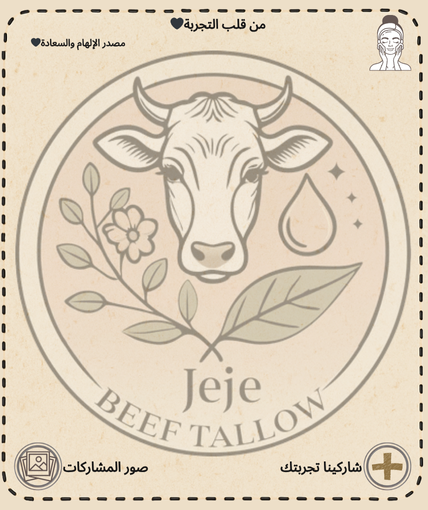
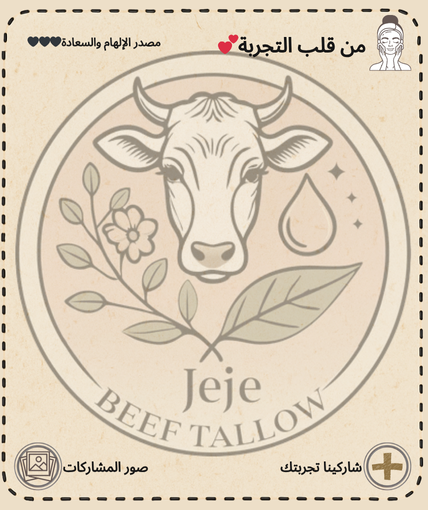
edit

Changed region(s): [[0.3949, 0.0294, 0.8505, 0.1176], [0.0607, 0.0588, 0.3645, 0.1176]]

diff --git a/sis/main.js b/sis/main.js
@@ -1,7 +1,7 @@
 
 (() => {
  
-  const IMAGE_URL = 'https://ghosted907.github.io/salla-assets/sis/4.png';
+  const IMAGE_URL = 'https://ghosted907.github.io/salla-assets/sis/5.png';
   const WA_PHONE  = '966557042544'; 
   const WA_TEXT   = encodeURIComponent('أرغب بإضافة رأيي حول المنتج');
   const GALLERY = [
@@ -130,8 +130,8 @@
          background:transparent!important;border:0;box-shadow:none!important;border-radius:9999px;
          display:block;cursor:pointer;z-index:3;appearance:none;-webkit-appearance:none;padding:0;margin:0}
 
-    .pin-add{top:92.5%;left:5.8%}
-    .pin-gallery{top:8.5%;left:5.8%}
+    .pin-add{top:91.5%;left:93.8%}
+    .pin-gallery{top:91.5%;left:4.8%}
 
     /* Modal */
     dialog.gallery-modal{ border:0; padding:0; background:transparent; }
@@ -184,7 +184,7 @@
     .gal-dot[aria-current="true"]{ background:#8d6a39; }
 
     /* ===== شريط الآراء المتحرك ===== */
-    .jf-ticker{ position:absolute; left:1px; right:8%; bottom:20%; height:140px; background:rgba(239,234,226,.80); border-radius:16px; padding:160px 14px; overflow:hidden; z-index:2; display:flex; align-items:stretch; }
+    .jf-ticker{ position:absolute; left:1px; right:8%; bottom:20%; height:140px; background:rgba(239,234,226,.80); border-radius:16px; padding:180px 14px; overflow:hidden; z-index:2; display:flex; align-items:stretch; }
     .jf-track{ display:flex; flex-direction:column; gap:10px; animation-name:jf-marquee-up; animation-timing-function:linear; animation-iteration-count:infinite; will-change:transform; }
     .jf-item{ background:#fff; border:1px solid #ddd; border-radius:12px; padding:10px 12px; color:#19191a; box-shadow:0 2px 6px rgba(0,0,0,.05); }
     .jf-ticker:hover .jf-track{ animation-play-state:paused; }
@@ -195,7 +195,7 @@
     /* بدل إيقاف الحركة بالكامل عند تفعيل تقليل الحركة، نجعلها أبطأ */
     @media (prefers-reduced-motion: reduce){ .jf-track{ animation-duration: calc(var(--jf-duration, 8s) * 1.6) !important; } }
     /* Keep ticker overlaying the poster on all sizes (clipped by .jf-hero) */
-    @media (max-width:640px){ .jf-ticker{ left:6%; right:6%; bottom:5%; height:clamp(80px, 24vw, 160px); } }
+    @media (max-width:640px){ .jf-ticker{ left:4%; right:4%; bottom:14%; height:clamp(80px, 24vw, 180px); } }
   `;
   const style = document.createElement('style'); style.textContent = css; document.head.appendChild(style);
 
